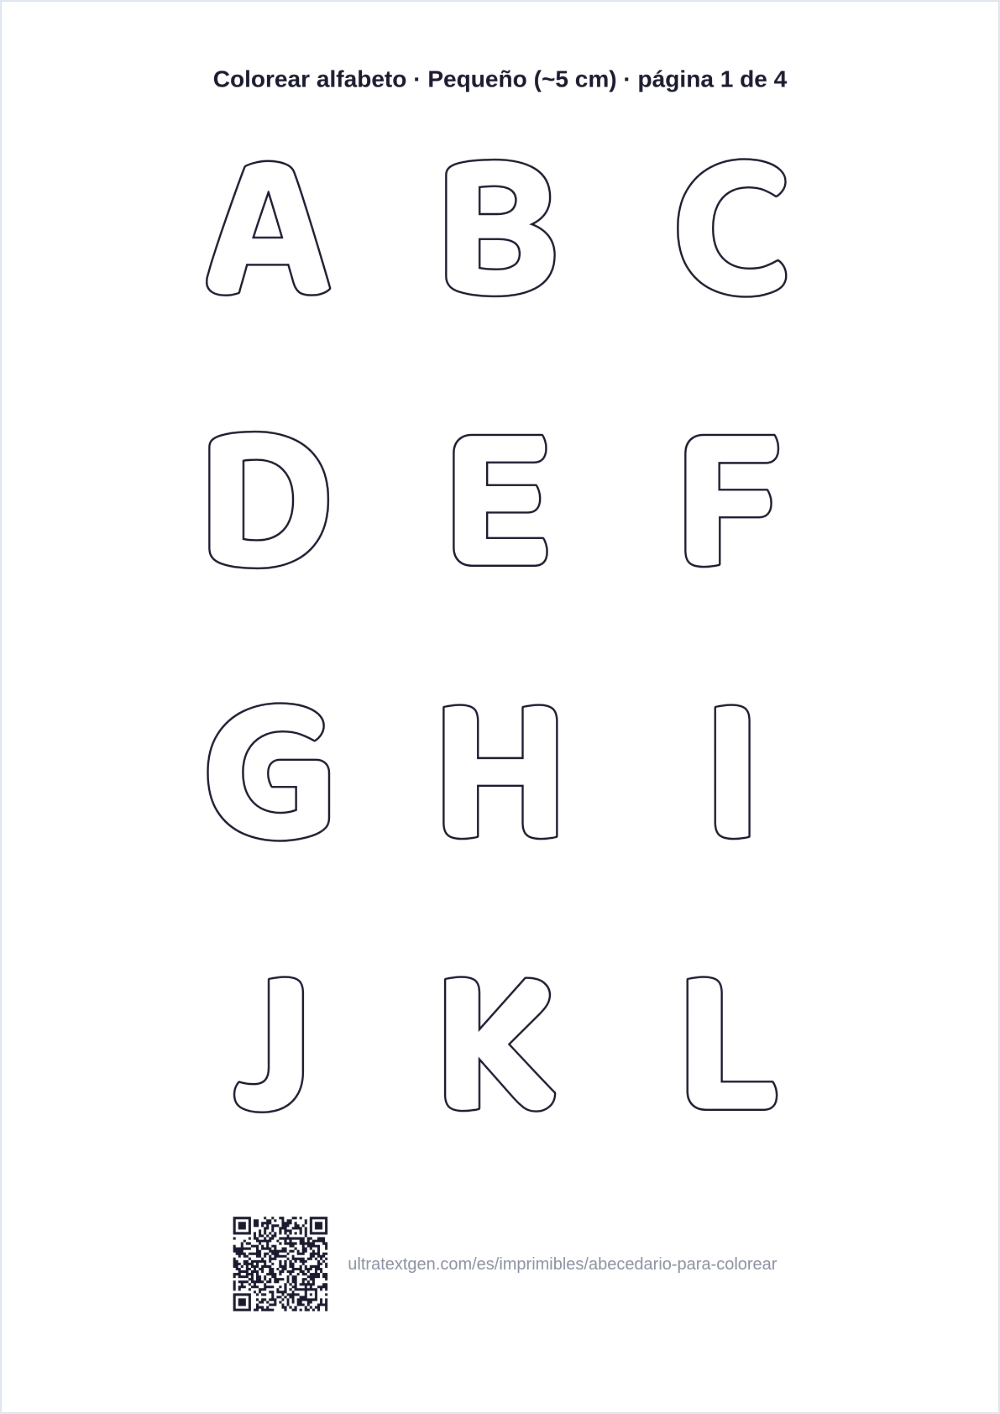
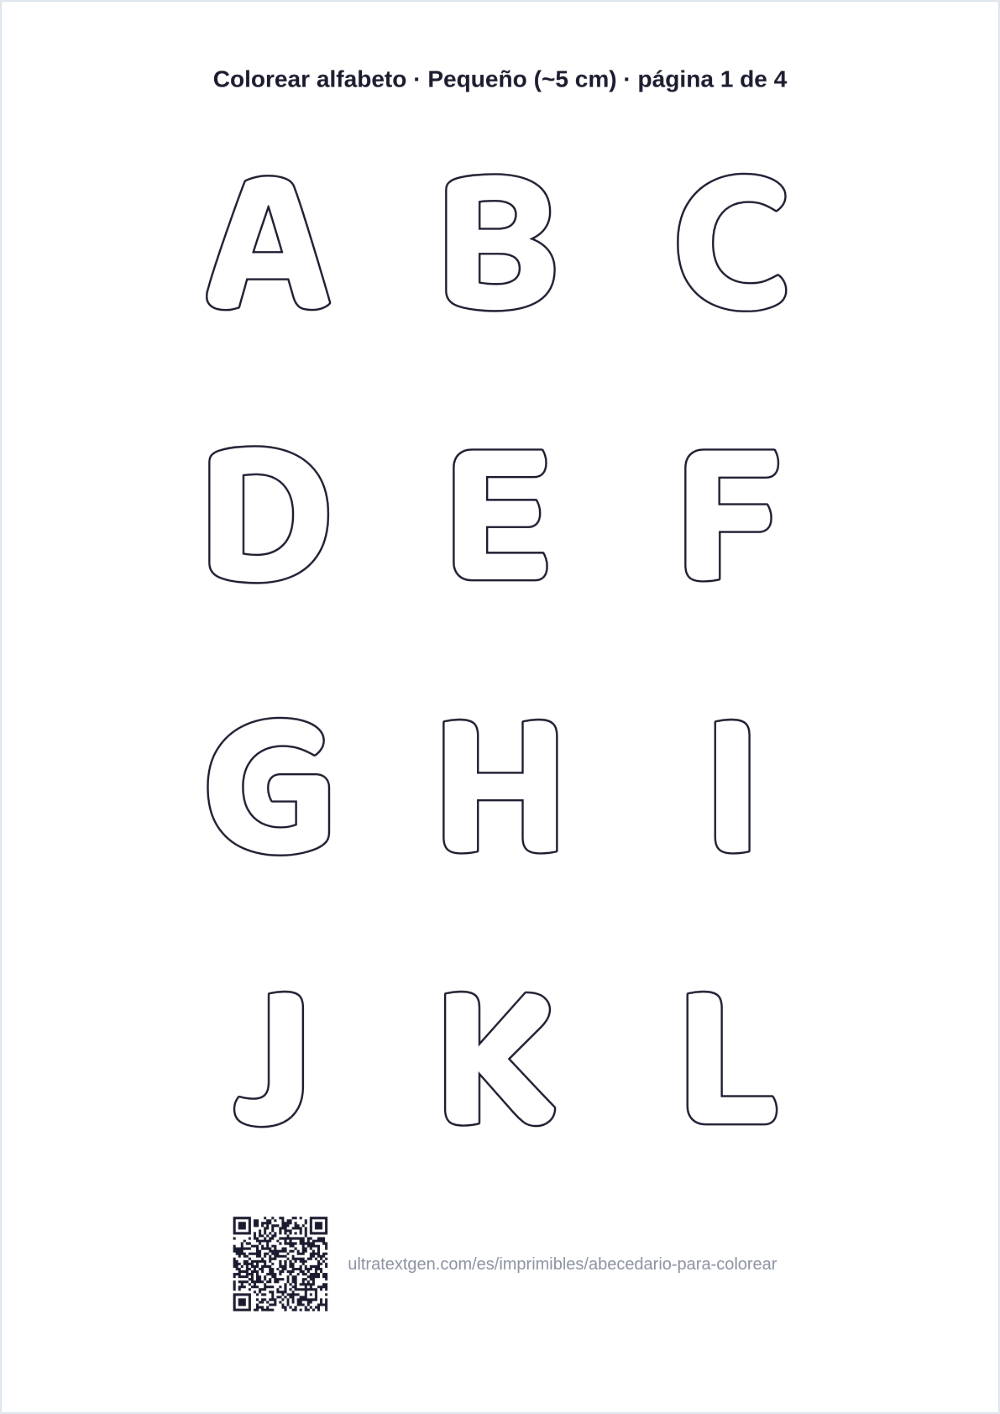
fix(printables): tiled sheets make room for accented capitals; previews for the batch
- A tiled sheet shares one baseline across TILE_BASELINE_SET, which was
  A-Z/a-z/0-9 only. On the Turkish small sheet that cut the breve off Ğ
  and the dot off İ at the top of their cells, which on a cut-out
  template turns them into G and I. The page's own non-ASCII letters now
  join the set. An A-Z page adds nothing: 152 EN/de/pl previews
  re-captured byte-identical. The two Spanish alphabet sheets (Ñ) shift
  down slightly and are re-captured.
- Sheet previews for the nine engine pages, captured from each page's
  own PDF (capture-printables-previews.js), and wired. nl and tr join the
  preview discovery's locale list.

Claude-Session: https://claude.ai/code/session_011Zb5s1NZ6SavJWCELATv6Q

diff --git a/nl/om-uit-te-printen/naam-leren-schrijven/index.html b/nl/om-uit-te-printen/naam-leren-schrijven/index.html
@@ -227,7 +227,7 @@ window.__h82AlnkH6D91__("WyJwdWItODI0MjMyNDE2NDQxMzk0NSIsW251bGwsbnVsbCxudWxsLCJ
           <textarea id="pt-name-roster" class="main-input" rows="5" placeholder="Eén naam per regel…&#10;Noor&#10;Sem&#10;Lotte" aria-label="Klassenlijst: één naam per regel"></textarea>
           <p class="pt-roster-hint">Plak je klassenlijst (tot 60 namen) en PDF downloaden maakt één werkblad per naam, met het aantal overtrekregels dat je hierboven kiest. De hele set komt in één PDF. PNG downloaden bewaart alleen de naam in het veld hierboven.</p>
         </details>
-        <div class="pt-name-preview" id="pt-name-preview" aria-live="polite" data-sheet-preview="/assets/printables-previews/nl-om-uit-te-printen-naam-leren-schrijven.png"><img class="pt-sheet-preview" src="/assets/printables-previews/nl-om-uit-te-printen-naam-leren-schrijven.png" width="1000" height="1414" alt="Voorbeeld van een werkblad om een naam te leren schrijven: de naam bovenaan, regels om over te trekken en lege schrijflijnen" loading="lazy"></div>
+        <div class="pt-name-preview" id="pt-name-preview" aria-live="polite" data-sheet-preview="/assets/printables-previews/nl-om-uit-te-printen-naam-leren-schrijven.png"><img class="pt-sheet-preview" src="/assets/printables-previews/nl-om-uit-te-printen-naam-leren-schrijven.png" width="1000" height="1414" alt="Naam leren schrijven: werkblad om over te trekken" loading="lazy"></div>
         <div class="bubble-actions pt-name-actions">
           <button type="button" class="bubble-btn bubble-btn-primary" id="pt-name-print">PDF downloaden</button>
           <button type="button" class="bubble-btn" id="pt-name-png">PNG downloaden</button>

diff --git a/it/da-stampare/lettere-a-bolla/index.html b/it/da-stampare/lettere-a-bolla/index.html
@@ -216,7 +216,7 @@ window.__h82AlnkH6D91__("WyJwdWItODI0MjMyNDE2NDQxMzk0NSIsW251bGwsbnVsbCxudWxsLCJ
       <h2 class="bubble-az-heading" id="ptPickHeading">Scegli una lettera a bolla</h2>
       <p class="bubble-az-intro">Tocca una lettera (A–Z) o un numero (0–9) per vedere la sua sagoma a bolla, scaricarla in PDF o in PNG, oppure copiare la stessa lettera in versione Unicode.</p>
       <div class="bubble-strip" id="pt-strip" role="tablist" aria-label="Scegli una lettera o un numero a bolla"></div>
-      <div class="bubble-letter-panel" id="pt-panel" aria-live="polite" data-sheet-preview="/assets/printables-previews/it-da-stampare-lettere-a-bolla.png"><img class="pt-sheet-preview" src="/assets/printables-previews/it-da-stampare-lettere-a-bolla.png" width="1000" height="1414" alt="Lettere a bolla da stampare: prima pagina dell'alfabeto A–Z e 0–9, sagome tonde e vuote da colorare" loading="lazy"></div>
+      <div class="bubble-letter-panel" id="pt-panel" aria-live="polite" data-sheet-preview="/assets/printables-previews/it-da-stampare-lettere-a-bolla.png"><img class="pt-sheet-preview" src="/assets/printables-previews/it-da-stampare-lettere-a-bolla.png" width="1000" height="1414" alt="Lettere a bolla da stampare A–Z e 0–9: anteprima della scheda da stampare" loading="lazy"></div>
       <p class="bubble-az-intro">Ti serve tutto l'alfabeto a bolla? Stampa A–Z e 0–9 in una volta: su un foglio solo, oppure come libretto con una grande lettera per pagina.</p>
       <div class="pt-size-field">
         <p class="pt-size-field-label">Formato di stampa</p>

diff --git a/nl/om-uit-te-printen/bubbelletters/index.html b/nl/om-uit-te-printen/bubbelletters/index.html
@@ -231,7 +231,7 @@ window.__h82AlnkH6D91__("WyJwdWItODI0MjMyNDE2NDQxMzk0NSIsW251bGwsbnVsbCxudWxsLCJ
       <h2 class="bubble-az-heading" id="ptPickHeading">Kies een bubbelletter</h2>
       <p class="bubble-az-intro">Tik op een letter (A&ndash;Z) of een cijfer (0&ndash;9) om de grote bubbelomtrek te zien, als PDF te bewaren of als PNG te downloaden.</p>
       <div class="bubble-strip" id="pt-strip" role="tablist" aria-label="Kies een bubbelletter of cijfer"></div>
-      <div class="bubble-letter-panel" id="pt-panel" aria-live="polite" data-sheet-preview="/assets/printables-previews/nl-om-uit-te-printen-bubbelletters.png"><img class="pt-sheet-preview" src="/assets/printables-previews/nl-om-uit-te-printen-bubbelletters.png" width="1000" height="1414" alt="Bubbelletters om uit te printen: het eerste vel van A tot Z en 0 tot 9, bolle holle letters om in te kleuren" loading="lazy"></div>
+      <div class="bubble-letter-panel" id="pt-panel" aria-live="polite" data-sheet-preview="/assets/printables-previews/nl-om-uit-te-printen-bubbelletters.png"><img class="pt-sheet-preview" src="/assets/printables-previews/nl-om-uit-te-printen-bubbelletters.png" width="1000" height="1414" alt="Bubbelletters om uit te printen: A–Z en 0–9" loading="lazy"></div>
       <p class="bubble-az-intro">Heb je het hele bubbelalfabet nodig? Print alle letters en cijfers in één keer: als één vel, of als boekje met één grote omtrek per pagina.</p>
       <div class="pt-size-field">
         <p class="pt-size-field-label">Printformaat</p>

diff --git a/tr/yazdirilabilir/harf-kaliplari/index.html b/tr/yazdirilabilir/harf-kaliplari/index.html
@@ -201,7 +201,7 @@ window.__h82AlnkH6D91__("WyJwdWItODI0MjMyNDE2NDQxMzk0NSIsW251bGwsbnVsbCxudWxsLCJ
       <h2 class="bubble-az-heading" id="ptPickHeading">Yazdırmak için bir harf seç</h2>
       <p class="bubble-az-intro">Bir harfe ya da rakama dokun: içi boş kalıbı gör, büyük boyutta PDF olarak indir ya da PNG kaydet.</p>
       <div class="bubble-strip" id="pt-strip" role="tablist" aria-label="Bir harf ya da rakam seç"></div>
-      <div class="bubble-letter-panel" id="pt-panel" aria-live="polite" data-sheet-preview="/assets/printables-previews/tr-yazdirilabilir-harf-kaliplari.png"><img class="pt-sheet-preview" src="/assets/printables-previews/tr-yazdirilabilir-harf-kaliplari.png" width="1000" height="1414" alt="Harf kalıpları A4 PDF: 29 harf ve 0–9 rakam setinin ilk sayfası, içi boş kalıplar" loading="lazy"></div>
+      <div class="bubble-letter-panel" id="pt-panel" aria-live="polite" data-sheet-preview="/assets/printables-previews/tr-yazdirilabilir-harf-kaliplari.png"><img class="pt-sheet-preview" src="/assets/printables-previews/tr-yazdirilabilir-harf-kaliplari.png" width="1000" height="1414" alt="Harf Kalıpları: 29 Harf ve 0–9 Rakam, Ücretsiz A4 PDF" loading="lazy"></div>
       <p class="bubble-az-intro">Alfabenin tamamı mı lazım? 29 harfi ve 10 rakamı tek seferde indir: ister tek bir sayfada, ister her harfe bir sayfa ayrılan kitapçık olarak.</p>
       <div class="pt-size-field">
         <p class="pt-size-field-label">Baskı boyutu</p>

diff --git a/es/imprimibles/rompecabezas-del-nombre/index.html b/es/imprimibles/rompecabezas-del-nombre/index.html
@@ -248,7 +248,7 @@ window.__h82AlnkH6D91__("WyJwdWItODI0MjMyNDE2NDQxMzk0NSIsW251bGwsbnVsbCxudWxsLCJ
             <span class="pt-preview-tag">Vista previa en vivo</span>
             <span class="pt-preview-meta">A4 o carta · listo para recortar</span>
           </div>
-          <div class="pt-paper" id="pt-puzzle-preview" aria-live="polite" data-sheet-preview="/assets/printables-previews/es-imprimibles-rompecabezas-del-nombre.png"><img class="pt-sheet-preview" src="/assets/printables-previews/es-imprimibles-rompecabezas-del-nombre.png" width="1000" height="1414" alt="Ejemplo de rompecabezas del nombre: LUCAS en piezas de letras en contorno separadas por líneas de corte punteadas" loading="lazy"></div>
+          <div class="pt-paper" id="pt-puzzle-preview" aria-live="polite" data-sheet-preview="/assets/printables-previews/es-imprimibles-rompecabezas-del-nombre.png"><img class="pt-sheet-preview" src="/assets/printables-previews/es-imprimibles-rompecabezas-del-nombre.png" width="1000" height="1414" alt="Rompecabezas del nombre para imprimir: vista previa de la hoja para imprimir" loading="lazy"></div>
           <div class="pt-preview-actions">
             <button type="button" class="bubble-btn bubble-btn-primary" id="pt-puzzle-print">Descargar PDF</button>
             <button type="button" class="bubble-btn" id="pt-puzzle-png">Descargar PNG</button>

diff --git a/nl/om-uit-te-printen/schrijfletters/index.html b/nl/om-uit-te-printen/schrijfletters/index.html
@@ -210,7 +210,7 @@ window.__h82AlnkH6D91__("WyJwdWItODI0MjMyNDE2NDQxMzk0NSIsW251bGwsbnVsbCxudWxsLCJ
       <h2 class="bubble-az-heading" id="ptPickHeading">Schrijfletters A&ndash;Z</h2>
       <p class="bubble-az-intro">Tik op een letter om de hoofdletter en de kleine letter in verbonden schrift te zien, die letter groot als PDF te bewaren of als PNG te downloaden.</p>
       <div class="bubble-strip" id="pt-strip" role="tablist" aria-label="Kies een schrijfletter"></div>
-      <div class="bubble-letter-panel" id="pt-panel" aria-live="polite" data-sheet-preview="/assets/printables-previews/nl-om-uit-te-printen-schrijfletters.png"><img class="pt-sheet-preview" src="/assets/printables-previews/nl-om-uit-te-printen-schrijfletters.png" width="1000" height="1414" alt="Oefenblad schrijfletters: voorbeeldletters in verbonden schrift met regels om over te trekken" loading="lazy"></div>
+      <div class="bubble-letter-panel" id="pt-panel" aria-live="polite" data-sheet-preview="/assets/printables-previews/nl-om-uit-te-printen-schrijfletters.png"><img class="pt-sheet-preview" src="/assets/printables-previews/nl-om-uit-te-printen-schrijfletters.png" width="1000" height="1414" alt="Schrijfletters: verbonden schrift A–Z om te printen" loading="lazy"></div>
     </section>
 
     <!-- Name worksheet in joined-up script -->

diff --git a/de/zum-ausdrucken/namenspuzzle/index.html b/de/zum-ausdrucken/namenspuzzle/index.html
@@ -249,7 +249,7 @@ window.__h82AlnkH6D91__("WyJwdWItODI0MjMyNDE2NDQxMzk0NSIsW251bGwsbnVsbCxudWxsLCJ
             <span class="pt-preview-tag">Live-Vorschau</span>
             <span class="pt-preview-meta">A4 · fertig zum Ausschneiden</span>
           </div>
-          <div class="pt-paper" id="pt-puzzle-preview" aria-live="polite" data-sheet-preview="/assets/printables-previews/de-zum-ausdrucken-namenspuzzle.png"><img class="pt-sheet-preview" src="/assets/printables-previews/de-zum-ausdrucken-namenspuzzle.png" width="1000" height="1414" alt="Beispiel für ein Namenspuzzle: JONAS als Buchstaben-Teile im Umriss, getrennt durch gestrichelte Schnittlinien" loading="lazy"></div>
+          <div class="pt-paper" id="pt-puzzle-preview" aria-live="polite" data-sheet-preview="/assets/printables-previews/de-zum-ausdrucken-namenspuzzle.png"><img class="pt-sheet-preview" src="/assets/printables-previews/de-zum-ausdrucken-namenspuzzle.png" width="1000" height="1414" alt="Namenspuzzle zum Ausdrucken: Vorschau der Druckvorlage" loading="lazy"></div>
           <div class="pt-preview-actions">
             <button type="button" class="bubble-btn bubble-btn-primary" id="pt-puzzle-print">PDF herunterladen</button>
             <button type="button" class="bubble-btn" id="pt-puzzle-png">PNG herunterladen</button>

diff --git a/fr/imprimables/puzzle-prenom/index.html b/fr/imprimables/puzzle-prenom/index.html
@@ -249,7 +249,7 @@ window.__h82AlnkH6D91__("WyJwdWItODI0MjMyNDE2NDQxMzk0NSIsW251bGwsbnVsbCxudWxsLCJ
             <span class="pt-preview-tag">Aperçu en direct</span>
             <span class="pt-preview-meta">A4 · prêt à découper</span>
           </div>
-          <div class="pt-paper" id="pt-puzzle-preview" aria-live="polite" data-sheet-preview="/assets/printables-previews/fr-imprimables-puzzle-prenom.png"><img class="pt-sheet-preview" src="/assets/printables-previews/fr-imprimables-puzzle-prenom.png" width="1000" height="1414" alt="Exemple de puzzle prénom : LOUISE en pièces-lettres en contour séparées par des pointillés de découpe" loading="lazy"></div>
+          <div class="pt-paper" id="pt-puzzle-preview" aria-live="polite" data-sheet-preview="/assets/printables-previews/fr-imprimables-puzzle-prenom.png"><img class="pt-sheet-preview" src="/assets/printables-previews/fr-imprimables-puzzle-prenom.png" width="1000" height="1414" alt="Puzzle prénom à imprimer: aperçu de la fiche à imprimer" loading="lazy"></div>
           <div class="pt-preview-actions">
             <button type="button" class="bubble-btn bubble-btn-primary" id="pt-puzzle-print">Télécharger le PDF</button>
             <button type="button" class="bubble-btn" id="pt-puzzle-png">Télécharger le PNG</button>

diff --git a/id/printables/menebalkan-nama/index.html b/id/printables/menebalkan-nama/index.html
@@ -199,7 +199,7 @@ window.__h82AlnkH6D91__("WyJwdWItODI0MjMyNDE2NDQxMzk0NSIsW251bGwsbnVsbCxudWxsLCJ
             <option value="6">6</option>
           </select>
         </div>
-        <div class="pt-name-preview" id="pt-name-preview" aria-live="polite" data-sheet-preview="/assets/printables-previews/id-printables-menebalkan-nama.png"><img class="pt-sheet-preview" src="/assets/printables-previews/id-printables-menebalkan-nama.png" width="1000" height="1414" alt="Contoh lembar menebalkan nama Aisyah: baris contoh utuh di atas, baris huruf samar untuk ditebalkan, lalu garis kosong" loading="lazy"></div>
+        <div class="pt-name-preview" id="pt-name-preview" aria-live="polite" data-sheet-preview="/assets/printables-previews/id-printables-menebalkan-nama.png"><img class="pt-sheet-preview" src="/assets/printables-previews/id-printables-menebalkan-nama.png" width="1000" height="1414" alt="Menebalkan Nama untuk Anak TK dan PAUD: pratinjau lembar cetak" loading="lazy"></div>
         <div class="bubble-actions pt-name-actions">
           <button type="button" class="bubble-btn bubble-btn-primary" id="pt-name-print">Unduh PDF</button>
           <button type="button" class="bubble-btn" id="pt-name-png">Unduh PNG</button>

diff --git a/js/printables/printablesEngine.js b/js/printables/printablesEngine.js
@@ -1300,8 +1300,15 @@
      --------------------------------------------------------------- */
 
   /* The set a tiled sheet shares a baseline across. Digits are in it because
-     the alphabet books print 0-9 alongside A-Z on the same grid. */
-  const TILE_BASELINE_SET = "ABCDEFGHIJKLMNOPQRSTUVWXYZabcdefghijklmnopqrstuvwxyz0123456789";
+     the alphabet books print 0-9 alongside A-Z on the same grid. A page's own
+     letters outside A-Z join it too (Ñ; Ç Ğ İ Ö Ş Ü): measured only on A-Z,
+     the Turkish small sheet centred a cap-height grid and cut the breve off Ğ
+     and the dot off İ at the top of their cells, which on a cut-out template
+     turns them into G and I. An A-Z page adds nothing, so its sheets render
+     exactly as before. */
+  const TILE_BASELINE_SET = "ABCDEFGHIJKLMNOPQRSTUVWXYZabcdefghijklmnopqrstuvwxyz0123456789" +
+    CHARS.filter((c) => !/^[A-Za-z0-9]$/.test(c))
+      .map((c) => c.toLocaleUpperCase(CASE_LOCALE) + c.toLocaleLowerCase(CASE_LOCALE)).join("");
 
   // A single character as a rounded, traceable SVG outline (outline mode).
   /* OUT-15 -- bridged stencils.

diff --git a/scripts/lib/printables_previews.py b/scripts/lib/printables_previews.py
@@ -26,7 +26,7 @@ OUT_DIR = os.path.join(REPO, "assets", "printables-previews")
 OUT_URL = "/assets/printables-previews"
 
 ENGINE_MARKERS = ("window.UTG_PRINTABLE", "crossStitchEngine.js", "monogramEngine.js")
-LOCALE_DIRS = ("de", "es", "fr", "id", "it", "pl", "pt")
+LOCALE_DIRS = ("de", "es", "fr", "id", "it", "nl", "pl", "pt", "tr")
 
 # The PDF buttons capture-printables-previews.js presses, in its PRIMARY order.
 # Listed here only so capture_query() can tell which one a page will use.
